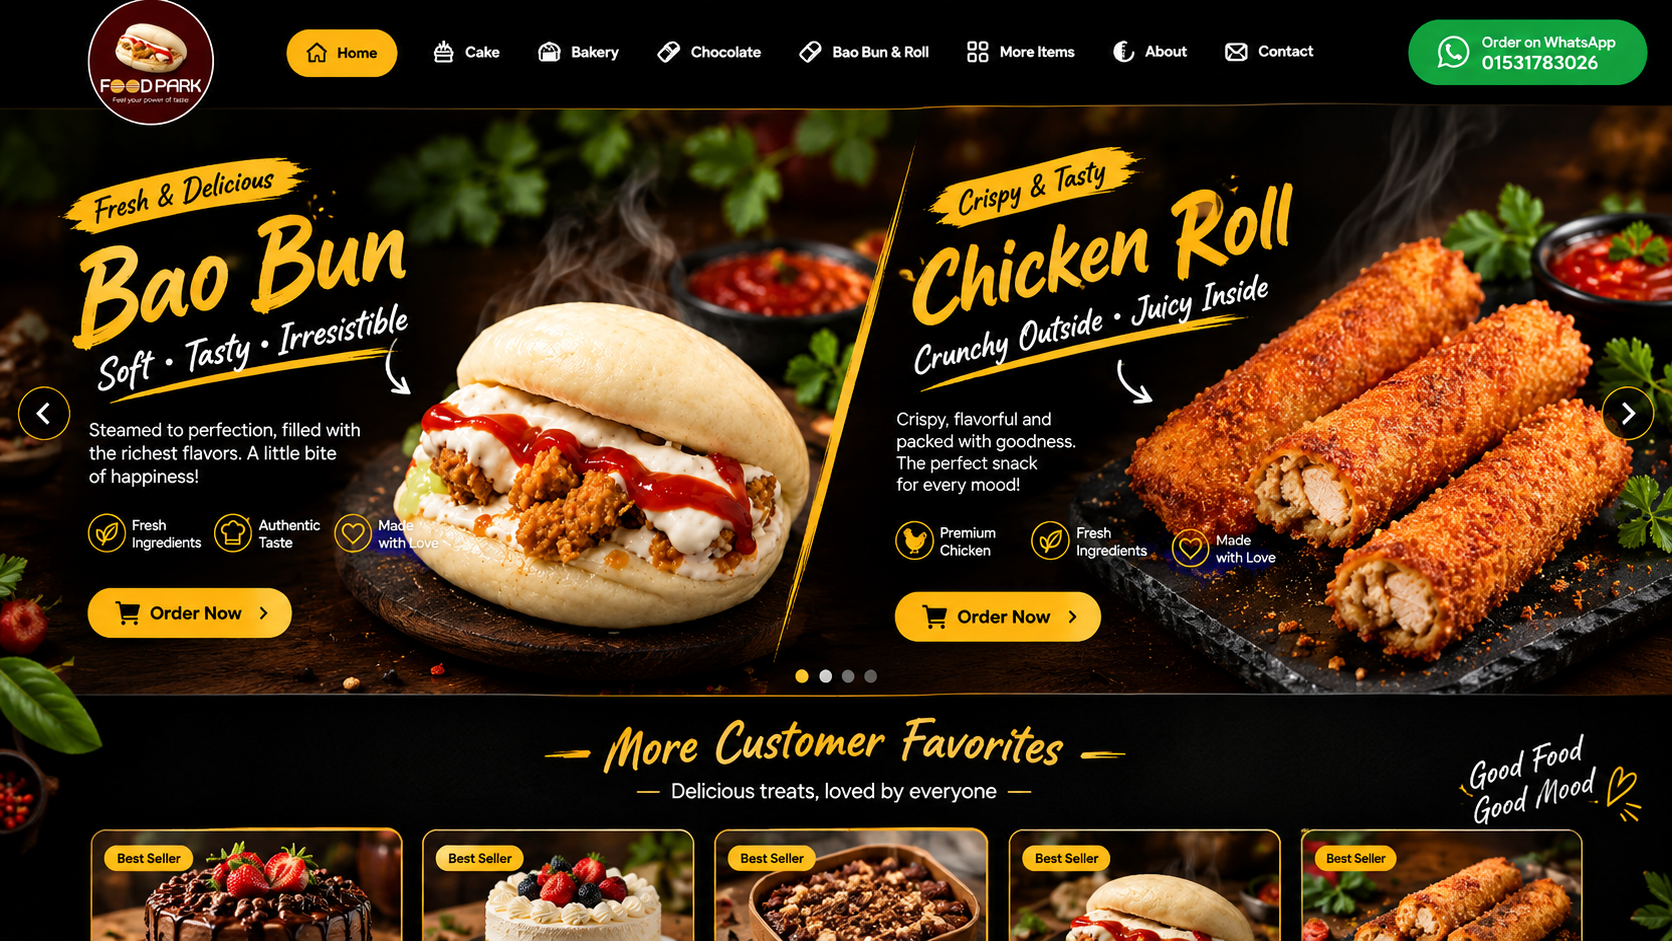
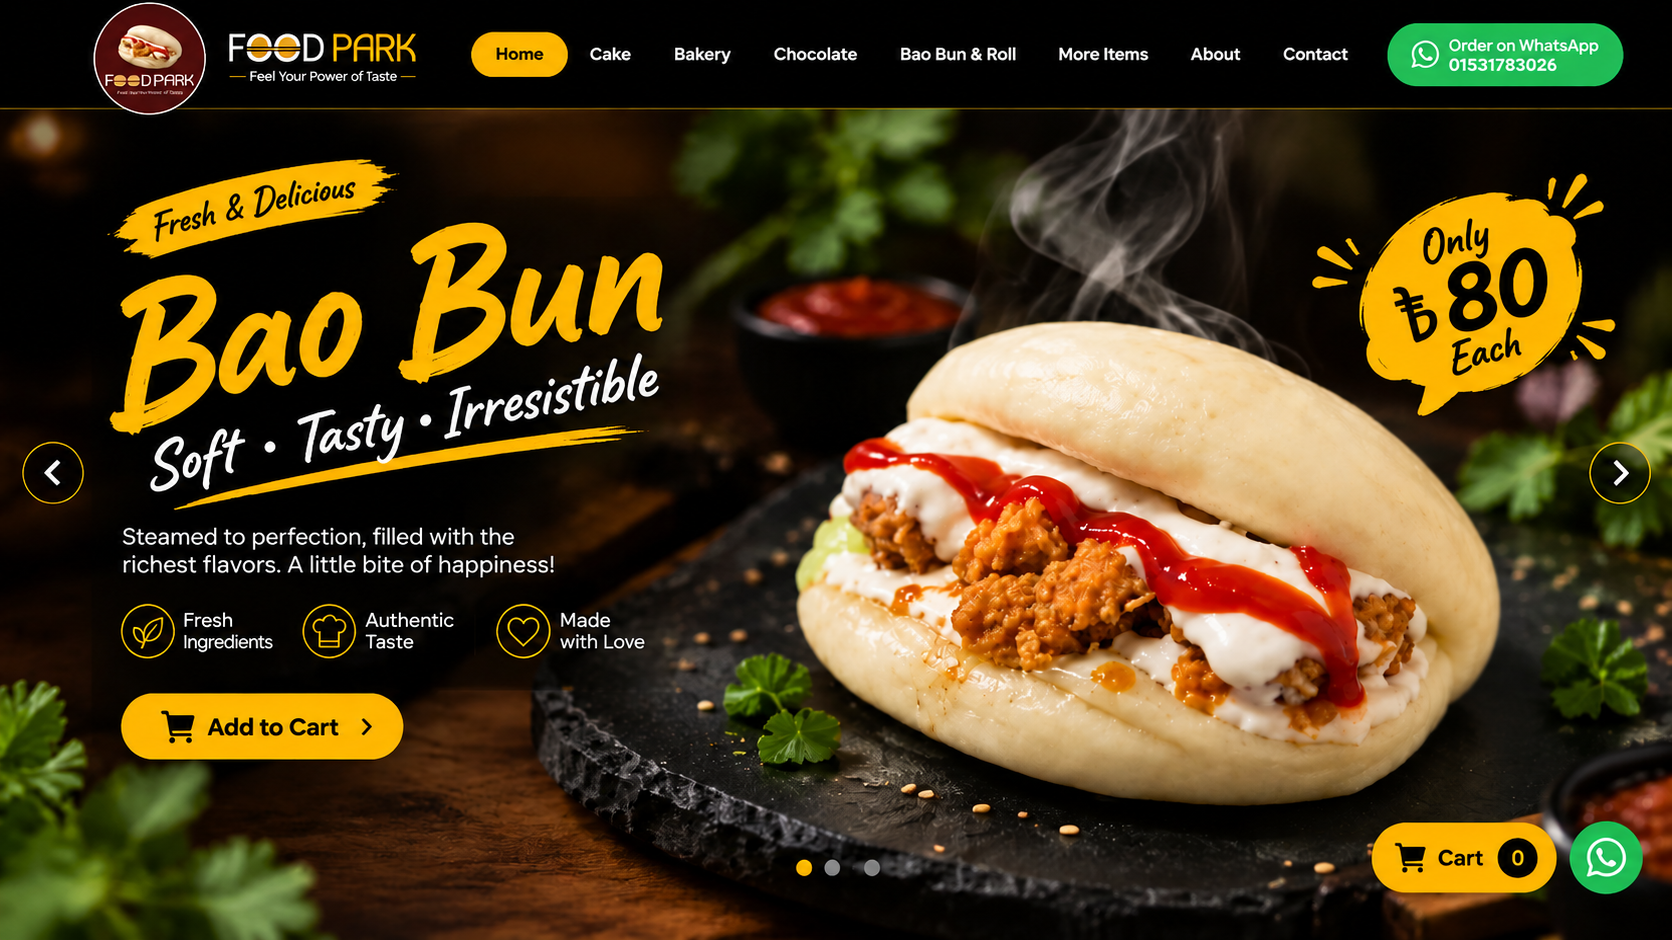
Add files via upload

diff --git a/index.html b/index.html
@@ -34,8 +34,8 @@ footer{background:#050302;border-top:1px solid #332417;padding:28px 0}.footer-ro
 
 <main id="home">
 <section class="hero">
-  <div class="slide active"><img class="slide-bg" src="assets/hero-bao.jpg" alt="Professional Bao Bun hero banner"><div class="hero-inner wrap"><div class="copy"><div class="eyebrow">Fresh & Delicious</div><h1>Soft. Tasty.<br><span>Irresistible Bao Bun</span></h1><p>Steamed to perfection and filled with delicious crispy chicken, creamy sauce and fresh ingredients — made to make every bite special.</p><div class="features"><div class="feature"><i>✦</i>Fresh Ingredients</div><div class="feature"><i>♡</i>Made With Love</div><div class="feature"><i>✓</i>Authentic Taste</div></div><button class="btn" onclick="addToCart('Classic Bao Bun',80,'assets/bao-bun.jpg')">🛒 Add to Cart</button></div></div><div class="price-badge">Only<b>৳80</b>Each</div></div>
-  <div class="slide roll"><img class="slide-bg" src="assets/chicken-roll.jpg" alt="Food Park chicken roll"><div class="hero-inner wrap"><div class="copy"><div class="eyebrow">Crispy & Tasty</div><h1>Crunchy Outside.<br><span>Juicy Chicken Roll</span></h1><p>Golden crispy chicken rolls made fresh with flavorful filling — a perfect snack for every mood.</p><div class="features"><div class="feature"><i>✦</i>Premium Chicken</div><div class="feature"><i>✓</i>Freshly Made</div><div class="feature"><i>♡</i>Made With Love</div></div><button class="btn" onclick="addToCart('Chicken Roll',30,'assets/chicken-roll.jpg')">🛒 Add to Cart</button></div></div><div class="price-badge">Only<b>৳30</b>Each</div></div>
+  <div class="slide active"><img class="slide-bg" src="assets/hero-bao.jpg" alt="Bao Bun hero banner"><div class="hero-inner wrap"><div class="copy"><div class="eyebrow">Fresh & Delicious</div><h1>Soft. Tasty.<br><span>Irresistible Bao Bun</span></h1><p>Soft bao bun filled with crispy chicken, creamy sauce and fresh ingredients — made fresh for every bite.</p><div class="features"><div class="feature"><i>✦</i>Fresh Ingredients</div><div class="feature"><i>♡</i>Made With Love</div><div class="feature"><i>✓</i>Authentic Taste</div></div><button class="btn" onclick="addToCart('Classic Bao Bun',80,'assets/bao-bun.jpg')">🛒 Add to Cart</button></div></div><div class="price-badge">Only<b>৳80</b>Each</div></div>
+  <div class="slide roll"><img class="slide-bg" src="assets/chicken-crispy-roll.jpg" alt="Food Park chicken roll"><div class="hero-inner wrap"><div class="copy"><div class="eyebrow">Crispy & Tasty</div><h1>Crunchy Outside.<br><span>Juicy Chicken Roll</span></h1><p>Golden crispy chicken rolls made fresh with flavorful filling — a perfect snack for every mood.</p><div class="features"><div class="feature"><i>✦</i>Premium Chicken</div><div class="feature"><i>✓</i>Freshly Made</div><div class="feature"><i>♡</i>Made With Love</div></div><button class="btn" onclick="addToCart('Chicken Roll',30,'assets/chicken-crispy-roll.jpg')">🛒 Add to Cart</button></div></div><div class="price-badge">Only<b>৳30</b>Each</div></div>
   <button class="arrow left" onclick="changeSlide(-1)">‹</button><button class="arrow right" onclick="changeSlide(1)">›</button><div class="dots"><button class="dot active" onclick="goSlide(0)"></button><button class="dot" onclick="goSlide(1)"></button></div>
 </section>
 
@@ -57,7 +57,7 @@ footer{background:#050302;border-top:1px solid #332417;padding:28px 0}.footer-ro
 <div class="card"><div class="pic"><img src="assets/bombay-halwa.jpg" alt="Bombay Halwa"></div><div class="body"><h3>Bombay Halwa</h3><div class="price">1/2 Kg — ৳450</div><button class="cart-btn" onclick="addToCart('Bombay Halwa',450,'assets/bombay-halwa.jpg')">Add to Cart</button></div></div>
 <div class="card"><div class="pic"><img src="assets/mini-pizza.jpg" alt="Mini Pizza"></div><div class="body"><h3>Mini Pizza</h3><div class="price">5 inch — ৳100 / Piece<br>Minimum 2 Pieces</div><button class="cart-btn" onclick="addToCart('Mini Pizza',100,'assets/mini-pizza.jpg')">Add to Cart</button></div></div>
 <div class="card"><div class="pic"><img src="assets/bao-bun.jpg" alt="Bao Bun"></div><div class="body"><h3>Classic Bao Bun</h3><div class="price">৳80 / Piece</div><button class="cart-btn" onclick="addToCart('Classic Bao Bun',80,'assets/bao-bun.jpg')">Add to Cart</button></div></div>
-<div class="card"><div class="pic"><img src="assets/chicken-roll.jpg" alt="Chicken Roll"></div><div class="body"><h3>Crispy Chicken Roll</h3><div class="price">৳30 / Piece</div><button class="cart-btn" onclick="addToCart('Chicken Roll',30,'assets/chicken-roll.jpg')">Add to Cart</button></div></div>
+<div class="card"><div class="pic"><img src="assets/chicken-crispy-roll.jpg" alt="Chicken Roll"></div><div class="body"><h3>Crispy Chicken Roll</h3><div class="price">৳30 / Piece</div><button class="cart-btn" onclick="addToCart('Chicken Roll',30,'assets/chicken-crispy-roll.jpg')">Add to Cart</button></div></div>
 </div></div></section>
 
 <section id="chocolate" class="dark reveal"><div class="wrap"><div class="section-head"><div><small>PURE CHOCOLATE HAPPINESS</small><h2>Chocolate Items</h2></div><a class="view" href="#chocolate">View All →</a></div><div class="grid five">
@@ -68,9 +68,20 @@ footer{background:#050302;border-top:1px solid #332417;padding:28px 0}.footer-ro
 <div class="card"><div class="pic"><span class="badge">CUSTOM</span><img src="assets/custom-chocolate.jpg" alt="Customized Chocolate"></div><div class="body"><h3>Customized Chocolate</h3><div class="price">৳250 onwards</div><button class="cart-btn" onclick="addToCart('Customized Chocolate',250,'assets/custom-chocolate.jpg')">Add</button></div></div>
 </div></div></section>
 
-<section id="bao" class="dark reveal"><div class="wrap feature-strip"><div class="feature-img"><img src="assets/hero-bao.jpg" alt="Professional Bao Bun presentation"></div><div class="feature-copy"><div class="eyebrow">Soft • Tasty • Irresistible</div><h2>Bao Bun & <span>Chicken Roll</span></h2><p>Two customer favorites, now presented in a more professional style. The real food photos stay the focus while the website adds polished cards, animation and easy ordering.</p><div class="info-pills"><span class="pill">Bao Bun — ৳80</span><span class="pill">Chicken Roll — ৳30</span><span class="pill">Freshly Made</span></div><button class="btn" onclick="addToCart('Classic Bao Bun',80,'assets/bao-bun.jpg')">🛒 Add Bao Bun</button> <button class="btn" onclick="addToCart('Chicken Roll',30,'assets/chicken-roll.jpg')">🛒 Add Roll</button></div></div></section>
+<section id="bao" class="dark reveal"><div class="wrap feature-strip"><div class="feature-img"><img src="assets/hero-bao.jpg" alt="Professional Bao Bun presentation"></div><div class="feature-copy"><div class="eyebrow">Soft • Tasty • Irresistible</div><h2>Bao Bun & <span>Chicken Roll</span></h2><p>Two customer favorites, now presented in a more professional style. The real food photos stay the focus while the website adds polished cards, animation and easy ordering.</p><div class="info-pills"><span class="pill">Bao Bun — ৳80</span><span class="pill">Chicken Roll — ৳30</span><span class="pill">Freshly Made</span></div><button class="btn" onclick="addToCart('Classic Bao Bun',80,'assets/bao-bun.jpg')">🛒 Add Bao Bun</button> <button class="btn" onclick="addToCart('Chicken Roll',30,'assets/chicken-crispy-roll.jpg')">🛒 Add Roll</button></div></div></section>
 
-<section id="more" class="wrap reveal"><div class="title"><small>MORE CUSTOMER FAVORITES</small><h2>Good Food, Good Mood</h2><p>More delicious choices from Food Park.</p></div><div class="stats"><div class="stat"><b>100%</b><span>Fresh Ingredients</span></div><div class="stat"><b>♡</b><span>Made With Love</span></div><div class="stat"><b>Fast</b><span>WhatsApp Ordering</span></div><div class="stat"><b>★★★★★</b><span>Customer Happiness</span></div></div></section>
+<section id="more" class="dark reveal"><div class="wrap"><div class="section-head"><div><small>MORE CUSTOMER FAVORITES</small><h2>More Food Park Specials</h2></div><a class="view" href="https://wa.me/8801531783026" target="_blank">Ask Price →</a></div><div class="grid">
+<div class="card"><div class="pic"><span class="badge">SPECIAL</span><img src="assets/caramel-pudding-real.jpeg" alt="Caramel Pudding"></div><div class="body"><h3>Caramel Pudding</h3><div class="price">Fresh homemade dessert<br>Price on request</div><a class="cart-btn" href="https://wa.me/8801531783026?text=Hello%20Food%20Park%2C%20I%20want%20Caramel%20Pudding." target="_blank">Order on WhatsApp</a></div></div>
+<div class="card"><div class="pic"><span class="badge">NEW</span><img src="assets/samosa-spring-roll.jpeg" alt="Samosa and Spring Roll"></div><div class="body"><h3>Samosa & Spring Roll</h3><div class="price">Crispy fresh snacks<br>Price on request</div><a class="cart-btn" href="https://wa.me/8801531783026?text=Hello%20Food%20Park%2C%20I%20want%20Samosa%20and%20Spring%20Roll." target="_blank">Order on WhatsApp</a></div></div>
+<div class="card"><div class="pic"><img src="assets/birthday-chocolate-cake.jpeg" alt="Birthday Chocolate Cake"></div><div class="body"><h3>Birthday Chocolate Cake</h3><div class="price">Custom cake design<br>Price on request</div><a class="cart-btn" href="https://wa.me/8801531783026?text=Hello%20Food%20Park%2C%20I%20want%20a%20Birthday%20Chocolate%20Cake." target="_blank">Order on WhatsApp</a></div></div>
+<div class="card"><div class="pic"><img src="assets/almond-cookies.jpeg" alt="Almond Cookies"></div><div class="body"><h3>Almond Cookies</h3><div class="price">Fresh baked cookies<br>Price on request</div><a class="cart-btn" href="https://wa.me/8801531783026?text=Hello%20Food%20Park%2C%20I%20want%20Almond%20Cookies." target="_blank">Order on WhatsApp</a></div></div>
+<div class="card"><div class="pic"><img src="assets/chocolate-crunch-bar.jpeg" alt="Chocolate Crunch Bar"></div><div class="body"><h3>Chocolate Crunch Bar</h3><div class="price">Chocolate special<br>Price on request</div><a class="cart-btn" href="https://wa.me/8801531783026?text=Hello%20Food%20Park%2C%20I%20want%20Chocolate%20Crunch%20Bar." target="_blank">Order on WhatsApp</a></div></div>
+<div class="card"><div class="pic"><img src="assets/pistachio-dessert.jpeg" alt="Pistachio Dessert"></div><div class="body"><h3>Pistachio Dessert</h3><div class="price">Pistachio special<br>Price on request</div><a class="cart-btn" href="https://wa.me/8801531783026?text=Hello%20Food%20Park%2C%20I%20want%20Pistachio%20Dessert." target="_blank">Order on WhatsApp</a></div></div>
+<div class="card"><div class="pic"><img src="assets/sweet-halwa.jpeg" alt="Sweet Halwa"></div><div class="body"><h3>Sweet Halwa</h3><div class="price">Traditional sweet<br>Price on request</div><a class="cart-btn" href="https://wa.me/8801531783026?text=Hello%20Food%20Park%2C%20I%20want%20Sweet%20Halwa." target="_blank">Order on WhatsApp</a></div></div>
+<div class="card"><div class="pic"><img src="assets/crispy-roll-real.jpeg" alt="Crispy Roll"></div><div class="body"><h3>Crispy Roll</h3><div class="price">Fresh crispy roll<br>৳30 / Piece</div><button class="cart-btn" onclick="addToCart('Crispy Roll',30,'assets/crispy-roll-real.jpeg')">Add to Cart</button></div></div>
+</div></div></section>
+
+<section class="wrap reveal"><div class="stats"><div class="stat"><b>100%</b><span>Fresh Ingredients</span></div><div class="stat"><b>♡</b><span>Made With Love</span></div><div class="stat"><b>Fast</b><span>WhatsApp Ordering</span></div><div class="stat"><b>★★★★★</b><span>Customer Happiness</span></div></div></section>
 
 <section id="about" class="contact"><div class="wrap contact-row"><div><div class="eyebrow">Place Your Order Now</div><h2>Good Food Brings People Together</h2></div><div><small>Order via WhatsApp</small><br><a class="phone" href="https://wa.me/8801531783026" target="_blank">01531783026</a></div><button class="btn" onclick="openCart()">View Cart →</button></div></section>
 </main>
